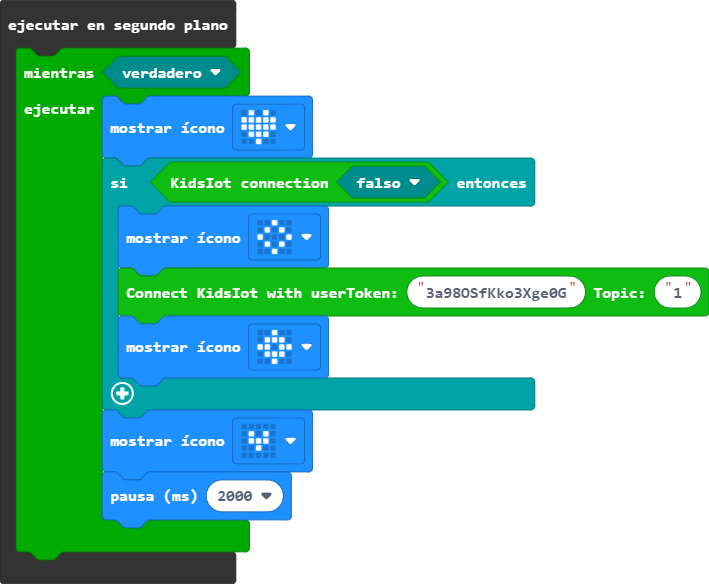
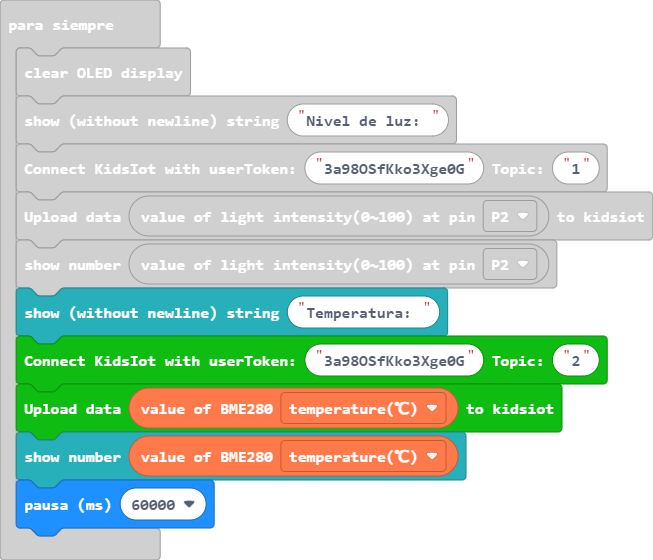
Incluye dos topics: luz y temperatura

diff --git a/main.ts b/main.ts
@@ -17,6 +17,10 @@ basic.forever(function () {
     ESP8266_IoT.connectKidsiot("3a98OSfKko3Xge0G", "1")
     ESP8266_IoT.uploadKidsiot(Environment.ReadLightIntensity(AnalogPin.P2))
     OLED.writeNumNewLine(Environment.ReadLightIntensity(AnalogPin.P2))
+    OLED.writeString("Temperatura: ")
+    ESP8266_IoT.connectKidsiot("3a98OSfKko3Xge0G", "2")
+    ESP8266_IoT.uploadKidsiot(Environment.octopus_BME280(Environment.BME280_state.BME280_temperature_C))
+    OLED.writeNumNewLine(Environment.octopus_BME280(Environment.BME280_state.BME280_temperature_C))
     basic.pause(60000)
 })
 control.inBackground(function () {
